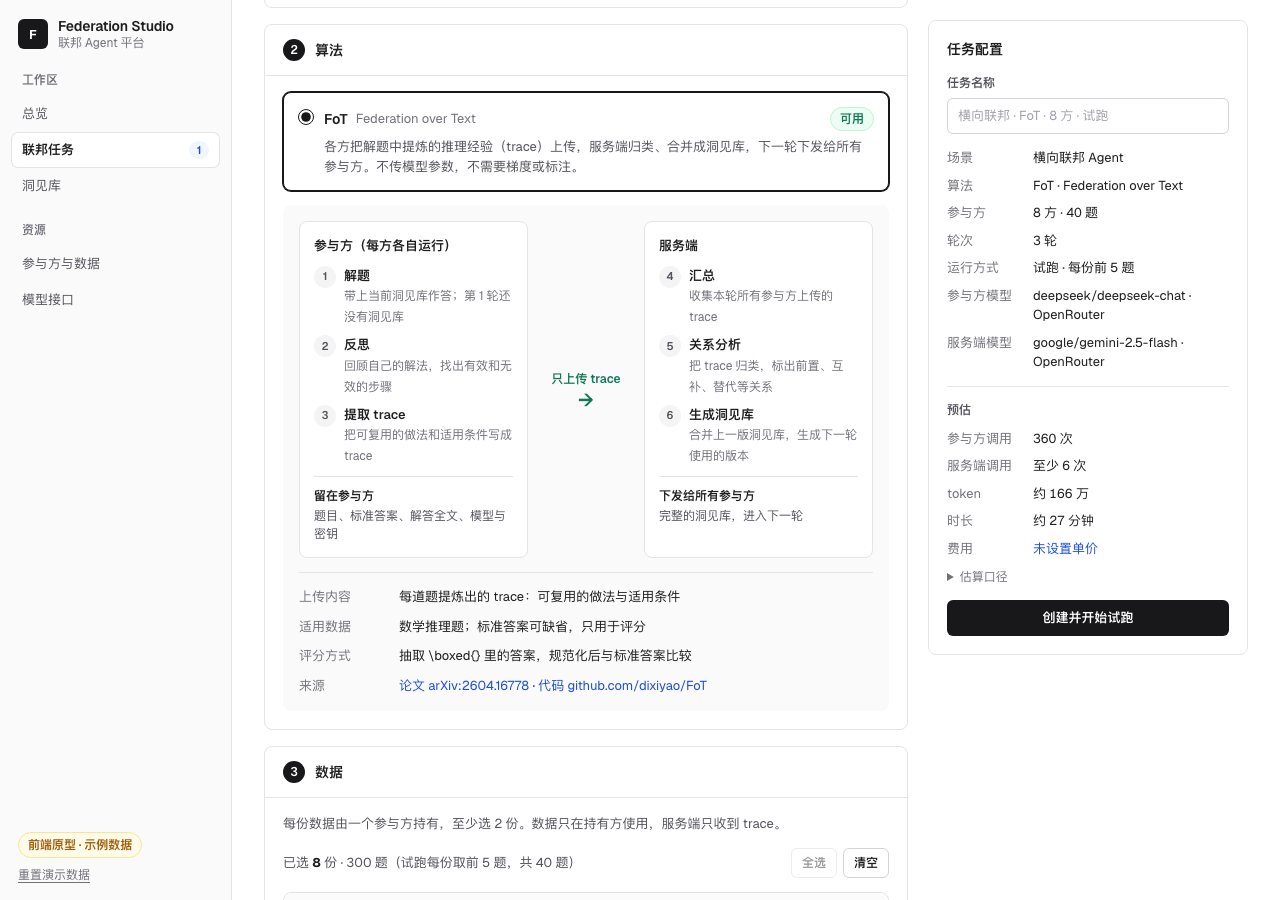
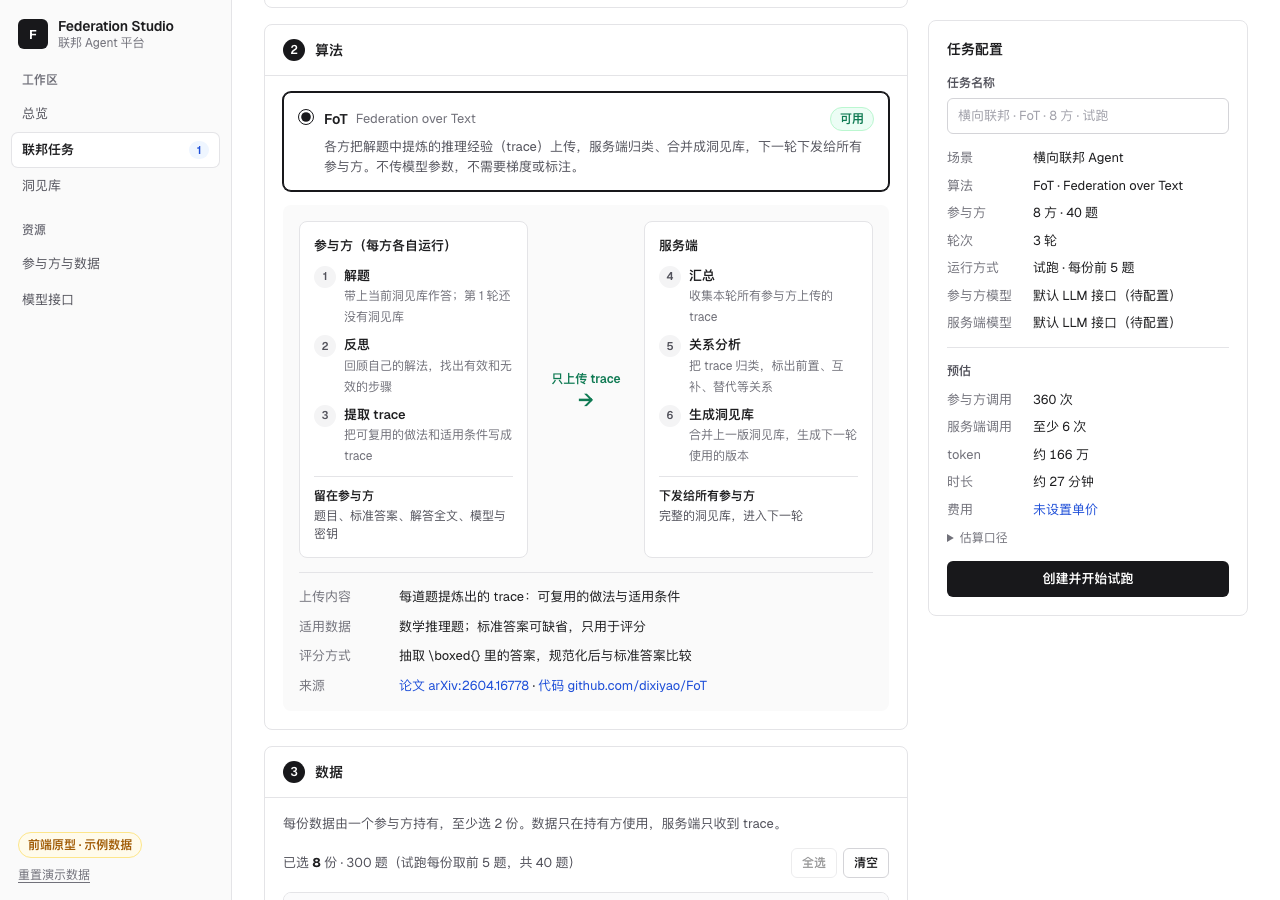
feat: reserve a default LLM endpoint instead of preset models (T34)
The backend models stay unconfigured for now; tasks default to the
reserved OpenAI-compatible endpoint and can still override per
participant. Drops the FoT license risk from the docs, records the
Tailscale connectivity test, and refreshes screenshots and the diagram.

Changed region(s): [[0.7188, 0.3111, 0.9688, 0.7156]]

diff --git a/app/src/ui/ModelsPage.tsx b/app/src/ui/ModelsPage.tsx
@@ -1,5 +1,5 @@
 import { useState, type Dispatch } from "react";
-import { parseModelRef, type Endpoint } from "../domain/resources";
+import { DEFAULT_ENDPOINT_ID, endpointOf, isConfigured, type Endpoint } from "../domain/resources";
 import type { Action, State } from "../state/store";
 import { Badge, Note, PageHead, Panel } from "./common";
 import { Icon } from "./icons";
@@ -8,7 +8,7 @@ type Props = { state: State; dispatch: Dispatch<Action> };
 
 function usedBy(state: State, endpointId: string): number {
   return state.tasks.filter((task) => [task.config.serverModel, ...task.members.map((member) => member.model)]
-    .some((ref) => parseModelRef(ref)?.endpointId === endpointId)).length;
+    .some((ref) => endpointOf(ref, state.endpoints)?.id === endpointId)).length;
 }
 
 export default function ModelsPage({ state, dispatch }: Props) {
@@ -17,7 +17,7 @@ export default function ModelsPage({ state, dispatch }: Props) {
     <>
       <PageHead
         title="模型接口"
-        meta="参与方和服务端的所有模型调用都经过模型网关，使用这里配置的 OpenAI 兼容接口。"
+        meta="平台侧的模型调用都通过 OpenAI 兼容的 LLM API。现在只预留了默认接口，具体服务和模型之后再配置。"
         actions={adding ? null : <button type="button" className="button button--primary" onClick={() => setAdding(true)}><Icon name="plus" />新增接口</button>}
       />
       {adding ? <NewEndpoint state={state} dispatch={dispatch} onDone={() => setAdding(false)} /> : null}
@@ -32,20 +32,30 @@ export default function ModelsPage({ state, dispatch }: Props) {
 }
 
 function EndpointCard({ endpoint, used, dispatch }: { endpoint: Endpoint; used: number; dispatch: Dispatch<Action> }) {
+  const configured = isConfigured(endpoint);
+  const fallback = endpoint.id === DEFAULT_ENDPOINT_ID;
   return (
     <Panel
       title={endpoint.name}
       id={`endpoint-${endpoint.id}`}
-      extra={<Badge>未测试</Badge>}
+      extra={configured ? <Badge>未测试</Badge> : <Badge tone="sample">预留 · 待配置</Badge>}
     >
       <dl className="facts">
-        <div><dt>接口地址</dt><dd><code>{endpoint.baseUrl}</code></dd></div>
+        <div><dt>接口类型</dt><dd>OpenAI 兼容（chat/completions）</dd></div>
+        <div><dt>接口地址</dt><dd>{endpoint.baseUrl ? <code>{endpoint.baseUrl}</code> : <span className="muted">待配置</span>}</dd></div>
         <div>
           <dt>模型</dt>
-          <dd><ul className="chips">{endpoint.models.map((model) => <li key={model}><code>{model}</code></li>)}</ul></dd>
+          <dd>
+            {endpoint.models.length
+              ? <ul className="chips">{endpoint.models.map((model) => <li key={model}><code>{model}</code></li>)}</ul>
+              : <span className="muted">待配置</span>}
+          </dd>
         </div>
-        <div><dt>任务使用</dt><dd>{used ? `${used} 个任务` : "暂未使用"}</dd></div>
+        <div><dt>任务使用</dt><dd>{used ? `${used} 个任务${fallback ? "（未单独指定模型时都用它）" : ""}` : "暂未使用"}</dd></div>
       </dl>
+      {fallback && !configured ? (
+        <p className="panel-text">接入后端后在这里填写接口地址、模型和 API 密钥。没有单独指定模型的参与方和服务端调用都走这个接口。</p>
+      ) : null}
       <div className="form-grid form-grid--tight">
         <label className="setting">
           <span className="setting-label">并发上限</span>
@@ -105,7 +115,7 @@ function NewEndpoint({ state, dispatch, onDone }: Props & { onDone: () => void }
       <div className="form-grid">
         <label className="setting">
           <span className="setting-label">名称</span>
-          <input value={name} maxLength={30} onChange={(event) => setName(event.target.value)} placeholder="例如：实验室 vLLM" />
+          <input value={name} maxLength={30} onChange={(event) => setName(event.target.value)} placeholder="例如：实验室模型服务" />
         </label>
         <label className="setting">
           <span className="setting-label">接口地址</span>
@@ -114,7 +124,7 @@ function NewEndpoint({ state, dispatch, onDone }: Props & { onDone: () => void }
         </label>
         <label className="setting setting--wide">
           <span className="setting-label">模型（每行一个，或用逗号分隔）</span>
-          <textarea rows={3} value={models} onChange={(event) => setModels(event.target.value)} placeholder="deepseek/deepseek-chat" />
+          <textarea rows={3} value={models} onChange={(event) => setModels(event.target.value)} placeholder="模型名称，每行一个" />
         </label>
         <label className="setting">
           <span className="setting-label">并发上限</span>

diff --git a/app/src/domain/resources.ts b/app/src/domain/resources.ts
@@ -97,26 +97,28 @@ export const BUILTIN_DATASETS: readonly Dataset[] = BUILTIN.map((item) => ({
   sample: item.sample,
 }));
 
+/**
+ * 预留的默认 LLM 接口：OpenAI 兼容，具体服务和模型之后再配置。
+ * 任务默认用它（模型引用写作 DEFAULT_MODEL）；需要时可以另外登记接口，给某些参与方单独指定。
+ */
+export const DEFAULT_ENDPOINT_ID = "default";
+export const DEFAULT_MODEL = "default";
+
 export const DEFAULT_ENDPOINTS: readonly Endpoint[] = [
-  {
-    id: "openrouter",
-    name: "OpenRouter",
-    baseUrl: "https://openrouter.ai/api/v1",
-    models: ["deepseek/deepseek-chat", "google/gemini-2.5-flash"],
-    concurrency: 8,
-    price: null,
-  },
-  {
-    id: "glm",
-    name: "智谱 GLM",
-    baseUrl: "https://open.bigmodel.cn/api/paas/v4",
-    models: ["glm-5.1"],
-    concurrency: 8,
-    price: null,
-  },
+  { id: DEFAULT_ENDPOINT_ID, name: "默认 LLM 接口", baseUrl: "", models: [], concurrency: 8, price: null },
 ];
 
-/** 模型引用写成"接口 id:模型名"，任务里只保存引用。 */
+/** 填了地址和模型才算配置好；预留的默认接口在接入后端前是未配置状态。 */
+export function isConfigured(endpoint: Endpoint): boolean {
+  return endpoint.baseUrl.trim() !== "" && endpoint.models.length > 0;
+}
+
+function defaultModelLabel(endpoints: readonly Endpoint[]): string {
+  const endpoint = endpoints.find((item) => item.id === DEFAULT_ENDPOINT_ID);
+  return endpoint && isConfigured(endpoint) ? `默认 LLM 接口 · ${endpoint.models[0]}` : "默认 LLM 接口（待配置）";
+}
+
+/** 模型引用写成"接口 id:模型名"（或 DEFAULT_MODEL），任务里只保存引用。 */
 export function modelRef(endpointId: string, model: string): string {
   return `${endpointId}:${model}`;
 }
@@ -128,13 +130,17 @@ export function parseModelRef(ref: string): { endpointId: string; model: string 
 }
 
 export function modelOptions(endpoints: readonly Endpoint[]): { ref: string; label: string }[] {
-  return endpoints.flatMap((endpoint) => endpoint.models.map((model) => ({
-    ref: modelRef(endpoint.id, model),
-    label: `${model} · ${endpoint.name}`,
-  })));
+  return [
+    { ref: DEFAULT_MODEL, label: defaultModelLabel(endpoints) },
+    ...endpoints.flatMap((endpoint) => endpoint.models.map((model) => ({
+      ref: modelRef(endpoint.id, model),
+      label: `${model} · ${endpoint.name}`,
+    }))),
+  ];
 }
 
 export function modelLabel(ref: string, endpoints: readonly Endpoint[]): string {
+  if (ref === DEFAULT_MODEL) return defaultModelLabel(endpoints);
   const parsed = parseModelRef(ref);
   if (!parsed) return ref;
   const endpoint = endpoints.find((item) => item.id === parsed.endpointId);
@@ -142,6 +148,7 @@ export function modelLabel(ref: string, endpoints: readonly Endpoint[]): string 
 }
 
 export function endpointOf(ref: string, endpoints: readonly Endpoint[]): Endpoint | undefined {
+  if (ref === DEFAULT_MODEL) return endpoints.find((item) => item.id === DEFAULT_ENDPOINT_ID);
   const parsed = parseModelRef(ref);
   return parsed ? endpoints.find((item) => item.id === parsed.endpointId) : undefined;
 }

diff --git a/app/src/domain/config.test.ts b/app/src/domain/config.test.ts
@@ -13,6 +13,9 @@ import {
 } from "./config";
 import { BUILTIN_DATASETS, BUILTIN_PARTICIPANTS, DEFAULT_ENDPOINTS, type Endpoint } from "./resources";
 
+/** 另外登记的接口，用来测试"给某个参与方单独指定模型"。 */
+const LAB: Endpoint = { id: "lab", name: "实验室接口", baseUrl: "http://10.0.0.1/v1", models: ["m1"], concurrency: 4, price: null };
+
 const ALL = BUILTIN_DATASETS.map((dataset) => dataset.id);
 
 function draft(patch: Partial<Draft> = {}): Draft {
@@ -41,9 +44,9 @@ describe("estimate", () => {
     const config = toConfig(draft({ mode: "full" }))!;
     const result = estimate(config, BUILTIN_DATASETS, priced);
     expect(result.cost).toBeCloseTo(((result.participantTokens + result.serverTokens) * 2) / 1_000_000);
-    const partly = priced.map((endpoint) => (endpoint.id === "glm" ? { ...endpoint, price: null } : endpoint));
-    const withGlm = toConfig(draft({ clientOverrides: { "ds-amc": "glm:glm-5.1" } }))!;
-    expect(estimate(withGlm, BUILTIN_DATASETS, partly).cost).toBeNull();
+    const withLab = toConfig(draft({ clientOverrides: { "ds-amc": "lab:m1" } }))!;
+    expect(estimate(withLab, BUILTIN_DATASETS, [...priced, LAB]).cost).toBeNull();
+    expect(estimate(config, BUILTIN_DATASETS, DEFAULT_ENDPOINTS).cost).toBeNull();
   });
 });
 
@@ -56,6 +59,8 @@ describe("draft", () => {
     const one = draft({ datasetIds: ["ds-amc"], serverModel: "missing:model" });
     expect(draftIssues(one, BUILTIN_DATASETS, BUILTIN_PARTICIPANTS, DEFAULT_ENDPOINTS).map((issue) => issue.field)).toEqual(["datasets", "models"]);
     expect(draftIssues(draft(), BUILTIN_DATASETS, BUILTIN_PARTICIPANTS, DEFAULT_ENDPOINTS)).toEqual([]);
+    // 默认走预留的 LLM 接口，接口还没配置也能创建任务。
+    expect(draft().clientModel).toBe("default");
   });
 
   it("choosing horizontal selects FoT and every usable dataset; planned scenarios select nothing", () => {
@@ -76,7 +81,7 @@ describe("draft", () => {
   });
 
   it("drops per-participant models of deselected datasets", () => {
-    const withOverride = draft({ clientOverrides: { "ds-amc": "glm:glm-5.1" } });
+    const withOverride = draft({ clientOverrides: { "ds-amc": "lab:m1" } });
     const deselected = toggleDataset(withOverride, "ds-amc");
     expect(activeOverrides(deselected)).toEqual({});
     expect(toConfig(deselected)?.clientOverrides).toEqual({});

diff --git a/app/src/domain/config.ts b/app/src/domain/config.ts
@@ -5,7 +5,7 @@
  * 只有汇总重试上限的默认值不同：复现器默认 0（一直重试到结果合法），平台默认 5 次，超过后暂停任务，避免费用失控。
  */
 import { algorithmOf, algorithmsFor, scenarioOf, type AlgorithmId, type ScenarioId } from "./catalog";
-import { endpointOf, modelRef, usable, type Dataset, type Endpoint, type Participant } from "./resources";
+import { DEFAULT_MODEL, endpointOf, usable, type Dataset, type Endpoint, type Participant } from "./resources";
 
 export type RunMode = "trial" | "full";
 export type InsightTarget = "paper-auto" | "author-formula" | "fixed-11" | "fixed-37";
@@ -43,9 +43,9 @@ export const DEFAULT_DRAFT: Draft = {
   scenario: null,
   algorithm: null,
   datasetIds: [],
-  clientModel: modelRef("openrouter", "deepseek/deepseek-chat"),
+  clientModel: DEFAULT_MODEL,
   clientOverrides: {},
-  serverModel: modelRef("openrouter", "google/gemini-2.5-flash"),
+  serverModel: DEFAULT_MODEL,
   rounds: 3,
   mode: "trial",
   trialCap: 5,
@@ -169,7 +169,7 @@ export function draftIssues(
   }
   const refs = [draft.clientModel, draft.serverModel, ...Object.values(activeOverrides(draft))];
   if (refs.some((ref) => !endpointOf(ref, endpoints))) {
-    issues.push({ field: "models", message: "选择参与方和服务端使用的模型" });
+    issues.push({ field: "models", message: "所选的模型接口已不存在，请重新选择" });
   }
   if (draft.rounds < algorithm.minRounds || draft.rounds > algorithm.maxRounds) {
     issues.push({ field: "rounds", message: `轮次在 ${algorithm.minRounds}–${algorithm.maxRounds} 之间` });

diff --git a/app/src/ui/LibraryPage.tsx b/app/src/ui/LibraryPage.tsx
@@ -120,7 +120,7 @@ function TryPanel({ version, state }: { version: LibraryVersion; state: State })
       {ran !== null ? (
         isExample ? (
           <>
-            <p className="sample-note" role="note"><Badge tone="sample">示意</Badge><span>以下回答是说明用的示例，不是 {modelLabel(model, state.endpoints)} 的真实输出。</span></p>
+            <p className="sample-note" role="note"><Badge tone="sample">示意</Badge><span>以下回答是说明用的示例，不是真实的模型输出；接入后端后由 {modelLabel(model, state.endpoints)} 实际作答。</span></p>
             <div className="compare-grid">
               <Panel title="不带洞见库" id="answer-without">
                 <pre className="answer" lang="en">{EXAMPLE.without}</pre>
@@ -152,7 +152,7 @@ function IntegratePanel({ item, version }: { item: Published; version: LibraryVe
         <pre className="code-block">{`curl -X POST https://<平台地址>/api/v1/libraries/${item.id}/apply \\
   -H "Authorization: Bearer $FEDAGENT_TOKEN" \\
   -H "Content-Type: application/json" \\
-  -d '{"question": "…", "model": "openrouter:deepseek/deepseek-chat", "compare": true}'`}</pre>
+  -d '{"question": "…", "model": "default", "compare": true}'`}</pre>
       </Panel>
       <Panel title="3 · 命令行" id="integrate-cli" extra={<Badge>接入后端后提供</Badge>}>
         <pre className="code-block">{`fedagent apply --library ${item.id} --file questions.jsonl --compare`}</pre>

diff --git a/app/src/state/seed.ts b/app/src/state/seed.ts
@@ -1,6 +1,6 @@
 /**
  * 演示环境的初始数据：8 个内置示例参与方（各持一份数学题库）、一个等待连接的本地参与方示例、
- * 两个模型接口、一个已完成的示例任务（其最终洞见库已发布）和一个正在试跑的任务。
+ * 预留的默认 LLM 接口（待配置）、一个已完成的示例任务（其最终洞见库已发布）和一个正在试跑的任务。
  *
  * 任务都通过领域函数推进生成，与用户新建的任务走同一套规则。结果都是示例数据。
  */
@@ -77,7 +77,7 @@ function runningTrialTask(): Task {
 
 export function seedState(): State {
   return {
-    version: 1,
+    version: 2,
     participants: [...BUILTIN_PARTICIPANTS.map((item) => ({ ...item })), { ...LOCAL_EXAMPLE }],
     datasets: BUILTIN_DATASETS.map((item) => ({ ...item })),
     endpoints: DEFAULT_ENDPOINTS.map((item) => ({ ...item, models: [...item.models] })),

diff --git a/app/src/domain/task.test.ts b/app/src/domain/task.test.ts
@@ -39,11 +39,11 @@ function runToEnd(task: Task): Task {
 
 describe("task", () => {
   it("freezes members with trial caps and their models", () => {
-    const task = newTask({ mode: "trial", trialCap: 5, clientOverrides: { "ds-amc": "glm:glm-5.1" } });
+    const task = newTask({ mode: "trial", trialCap: 5, clientOverrides: { "ds-amc": "lab:m1" } });
     expect(task.members.map((member) => [member.dataset, member.problems, member.model])).toEqual([
-      ["AIME24", 5, "openrouter:deepseek/deepseek-chat"],
-      ["AMC", 5, "glm:glm-5.1"],
-      ["CCEE", 5, "openrouter:deepseek/deepseek-chat"],
+      ["AIME24", 5, "default"],
+      ["AMC", 5, "lab:m1"],
+      ["CCEE", 5, "default"],
     ]);
     expect(task.cursor).toEqual({ round: 1, stage: "solve", done: {}, ticks: 0 });
   });

diff --git a/app/src/ui/NewTaskPage.tsx b/app/src/ui/NewTaskPage.tsx
@@ -354,7 +354,7 @@ function RunSettings({
           <select value={draft.clientModel} onChange={(event) => update({ clientModel: event.target.value })}>
             {options.map((option) => <option key={option.ref} value={option.ref}>{option.label}</option>)}
           </select>
-          <small className="setting-hint">每个参与方用这个模型解题、反思和提取 trace；可在高级设置里分别指定。</small>
+          <small className="setting-hint">平台托管的参与方用它解题、反思和提取 trace；本地参与方用自己的模型。默认走预留的 LLM 接口，服务和模型之后再配置。</small>
         </label>
 
         <label className="setting">

diff --git a/app/src/state/persistence.ts b/app/src/state/persistence.ts
@@ -1,6 +1,6 @@
 /**
  * 演示数据保存在浏览器本地（localStorage），刷新页面后任务和进度都还在。
- * 版本不符或内容损坏时回到初始数据。旧版原型（7 个维度）的数据用的是另一个键，不会读到。
+ * 版本不符或内容损坏时回到初始数据（版本 2 起模型接口改为预留的默认接口）。旧版原型（7 个维度）的数据用的是另一个键，不会读到。
  */
 import { seedState } from "./seed";
 import { STATE_VERSION, type State } from "./store";

diff --git a/app/src/state/store.ts b/app/src/state/store.ts
@@ -7,7 +7,7 @@ import type { Dataset, Endpoint, Participant } from "../domain/resources";
 import { cancel, createTask, pause, resume, tick, type Task } from "../domain/task";
 import { seedState } from "./seed";
 
-export const STATE_VERSION = 1;
+export const STATE_VERSION = 2;
 
 export type Published = {
   id: string;

diff --git a/docs/agent-platform-design.gen.py b/docs/agent-platform-design.gen.py
@@ -90,7 +90,7 @@ pages = [
     ("联邦任务", ("新建：场景 → 算法 → 数据 → 设置", "详情：进度 · 结果 · 洞见库 · 上传记录")),
     ("洞见库", ("各任务发布的版本", "试用（带库 / 不带库）· 导出 · API")),
     ("参与方与数据", ("平台托管 / 参与方本地", "上传题库，浏览器内检查格式")),
-    ("模型接口", ("OpenRouter · GLM 等", "并发上限 · 单价（费用预估）")),
+    ("模型接口", ("预留的默认 LLM 接口", "服务与模型后续配置 · 单价")),
 ]
 for i, (t, s) in enumerate(pages):
     box(60 + i * 300, 226, 280, 58, t, s, "#eff6ff", "#93c5fd", ts=14, ss=11)
@@ -135,7 +135,7 @@ for i, (t, s) in enumerate(steps_right):
 box(916, 670, 608, 64, "洞见库（每轮一版）", ("下发给所有参与方，进入下一轮；最后一版可发布到洞见库，供试用、导出和 API 调用",), "#f5f3ff", "#c4b5fd", ts=13, ss=11)
 
 # 基础设施
-box(60, 842, 820, 50, "模型网关（OpenAI 兼容）", ("OpenRouter / GLM · 每个参与方可用不同模型 · 并发、重试、用量与单价；本地参与方用自己的模型密钥，不经过这里",), ts=13.5, ss=11)
+box(60, 842, 820, 50, "模型网关（预留 OpenAI 兼容的 LLM API）", ("服务与模型后续配置 · 可给参与方单独指定 · 并发、重试、用量与单价；本地参与方用自己的模型，不经过这里",), ts=13.5, ss=11)
 box(896, 842, 320, 50, "存储", ("SQLite 索引 + 每个任务一个运行目录",), ts=13.5, ss=11)
 box(1232, 842, 308, 50, "不需要", ("GPU · K8s · 沙箱（FoT 只调模型 API）",), "#f9fafb", "#d1d5db", ts=13.5, ss=11, dash="5,4")
 

diff --git a/docs/ARCHITECTURE.md b/docs/ARCHITECTURE.md
@@ -165,9 +165,10 @@ class AlgorithmPlugin(Protocol):
 
 ## 9. 模型网关
 
-- 统一的 OpenAI 兼容客户端（httpx），第一批接 OpenRouter 和智谱 GLM。
-- 每个接口配置地址、密钥（服务端加密保存）、模型列表、并发上限、重试和单价；每次调用都记录模型、token、耗时和错误。
-- 参与方和服务端可以用不同的接口和模型；本地参与方不经过网关。
+- **接口**：统一的 OpenAI 兼容客户端（httpx），调用 LLM API。现在只预留"默认 LLM 接口"，具体服务和模型之后再配置（OpenRouter、GLM 或自建服务都可以接）。
+- **引用**：任务里的模型引用默认是 `default`，即默认接口；需要时可以登记其他接口，给某些参与方单独指定。
+- **配置与记录**：每个接口配置地址、密钥（服务端加密保存）、模型列表、并发上限、重试和单价；每次调用都记录模型、token、耗时和错误。
+- **本地参与方**：用自己的模型，不经过网关。
 
 ## 10. API 草案
 
@@ -203,7 +204,8 @@ GET  /v1/tasks/{id}/rounds/{r}/library   POST /v1/tasks/{id}/rounds/{r}/uploads 
 
 - **平台**：
   - 一台普通 CPU 服务器即可（4 核 8 GB 起），用 Docker Compose 部署 API、worker 和前端静态文件；
-  - 服务器要能访问 OpenRouter、GLM 等模型接口。
+  - 服务器要能访问所配置的 LLM API。
+  - 实验室服务器已加入 Tailscale（`zhiqikou-ic4078375cc`，SSH 端口 10022），可以作为部署目标。
 - **后端开发环境**：Python 3.11+，用 uv 在项目目录内建虚拟环境（`server/.venv`）。
 - **参与方客户端**：Python 包，`pip install fedagent-client`。
 - **不需要**：GPU（模型调用都走外部接口）、K8s、沙箱、KVM（FoT 不执行生成的代码）。以后加入编程题时，只有判分需要隔离环境。
@@ -215,7 +217,6 @@ GET  /v1/tasks/{id}/rounds/{r}/library   POST /v1/tasks/{id}/rounds/{r}/uploads 
 - **trace**：trace 是自然语言，可能带出题目细节。本地客户端支持上传前审查（规则过滤 + 逐条确认）；服务端只保存 trace，不接收题目和答案。
 - **密钥**：模型密钥只存服务端；本地参与方的密钥留在本地。
 - **审计**：每个任务记录配置快照与哈希、提示词哈希、数据哈希、上游代码版本（dixiyao/FoT @ b02753c），以及每次调用的模型、token、重试与错误。
-- **许可**：上游 FoT 快照没有 LICENSE 文件，公开或商用前要先向原作者确认授权。
 
 ## 14. 技术选型
 
@@ -229,7 +230,6 @@ GET  /v1/tasks/{id}/rounds/{r}/library   POST /v1/tasks/{id}/rounds/{r}/uploads 
 
 ## 15. 待定
 
-- 纵向和迁移采用哪些算法。
+- 纵向和迁移采用哪些算法（暂不定）。
 - 本地参与方超时或掉线时，等待还是跳过这一方。
-- 默认模型：网关里有哪些模型，参与方和服务端各用哪个。论文结果来自 DeepSeek 和 Gemini；gpt-5.4-mini 的三个种子没有复现提升。
-- FoT 的授权。
+- 用哪个 LLM 服务和模型：先预留接口，之后再配。参考信息：论文结果来自 DeepSeek 和 Gemini；gpt-5.4-mini 的三个种子没有复现提升。
